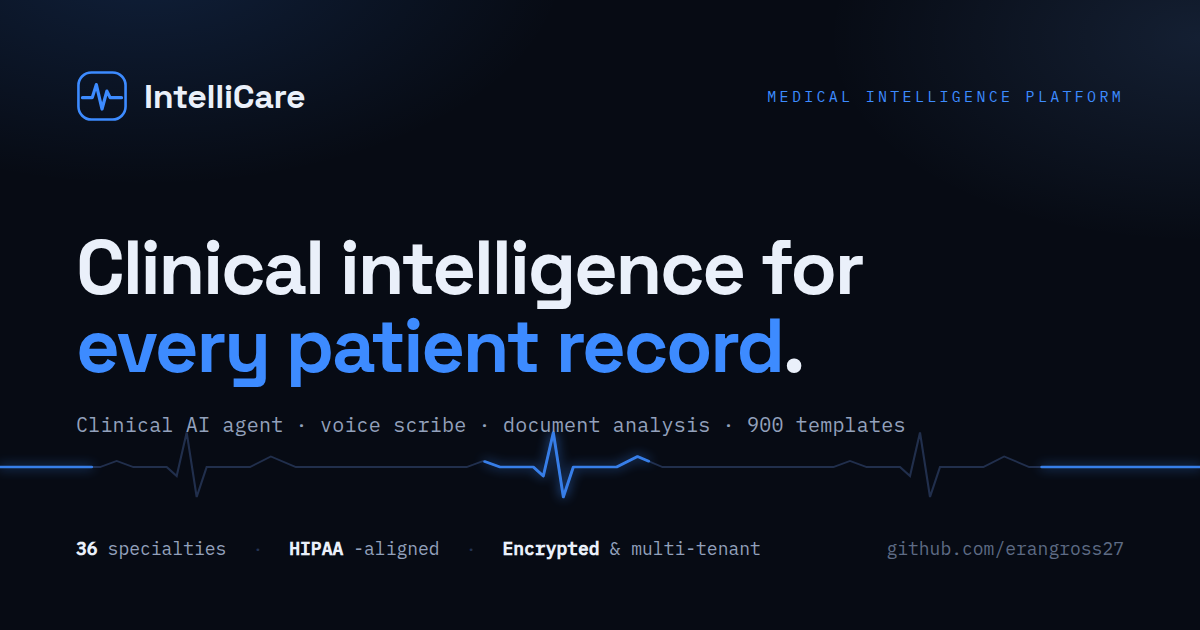
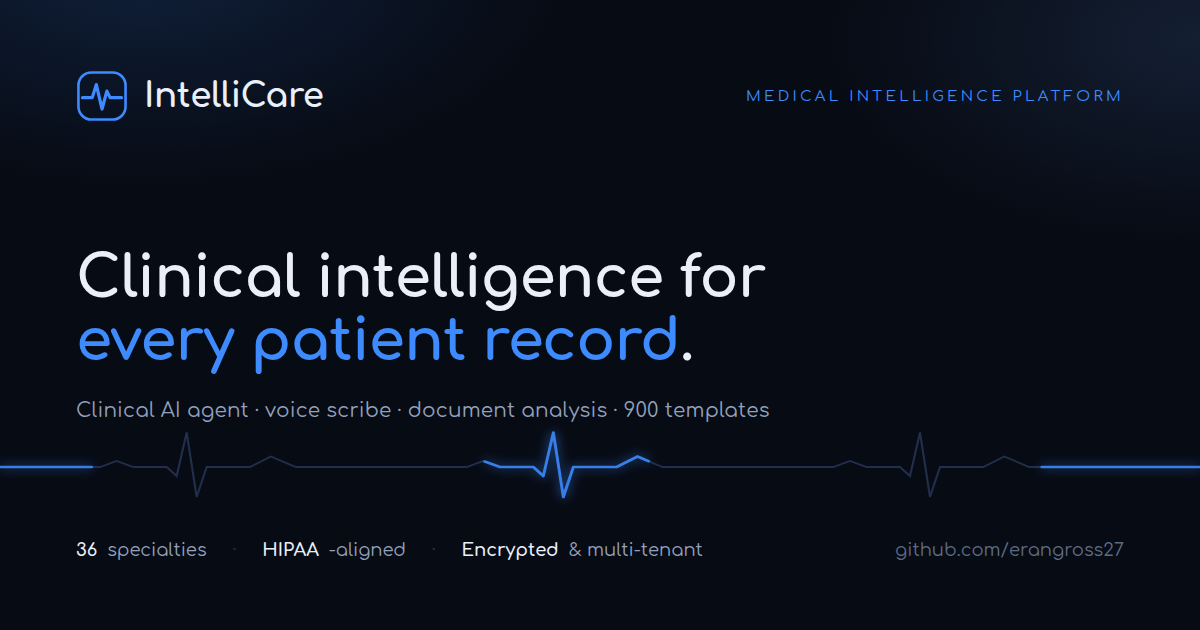
style: switch landing page + social card fonts to Comfortaa
Match the IntelliCare platform/artifact typography ('Comfortaa','Segoe UI',
sans-serif) per the template-creation checklist — replaces Space Grotesk +
IBM Plex throughout the page and the 1200x630 social card.

diff --git a/index.html b/index.html
@@ -32,7 +32,7 @@
 
   <link rel="preconnect" href="https://fonts.googleapis.com" />
   <link rel="preconnect" href="https://fonts.gstatic.com" crossorigin />
-  <link href="https://fonts.googleapis.com/css2?family=Space+Grotesk:wght@500;600;700&family=IBM+Plex+Sans:wght@400;500;600&family=IBM+Plex+Mono:wght@400;500&display=swap" rel="stylesheet" />
+  <link href="https://fonts.googleapis.com/css2?family=Comfortaa:wght@300;400;500;600;700&display=swap" rel="stylesheet" />
 
   <script type="application/ld+json">
   {
@@ -58,11 +58,11 @@
     html { scroll-behavior: smooth; }
     body {
       margin:0; background:var(--ink); color:var(--text);
-      font-family:"IBM Plex Sans",system-ui,sans-serif; font-size:17px; line-height:1.6;
+      font-family:'Comfortaa','Segoe UI',sans-serif; font-size:17px; line-height:1.6;
       -webkit-font-smoothing:antialiased; overflow-x:hidden;
     }
     a { color:inherit; text-decoration:none; }
-    h1,h2,h3 { font-family:"Space Grotesk",system-ui,sans-serif; font-weight:700; line-height:1.08; margin:0; letter-spacing:-0.02em; }
+    h1,h2,h3 { font-family:'Comfortaa','Segoe UI',sans-serif; font-weight:700; line-height:1.08; margin:0; letter-spacing:-0.02em; }
     .wrap { max-width:var(--maxw); margin:0 auto; padding:0 24px; }
 
     /* Ambient drifting glow behind everything */
@@ -76,7 +76,7 @@
     header.nav, main, footer { position:relative; z-index:1; }
 
     .eyebrow {
-      font-family:"IBM Plex Mono",monospace; font-size:12.5px; letter-spacing:0.18em; text-transform:uppercase;
+      font-family:'Comfortaa','Segoe UI',sans-serif; font-size:12.5px; letter-spacing:0.18em; text-transform:uppercase;
       color:var(--blue); display:inline-flex; align-items:center; gap:9px;
     }
     .eyebrow::before {
@@ -88,12 +88,12 @@
     /* Nav */
     header.nav { position:sticky; top:0; z-index:50; background:rgba(6,10,20,.72); backdrop-filter:blur(12px); border-bottom:1px solid var(--line); }
     .nav-inner { display:flex; align-items:center; justify-content:space-between; height:64px; }
-    .brand { display:flex; align-items:center; gap:10px; font-family:"Space Grotesk"; font-weight:700; font-size:19px; }
+    .brand { display:flex; align-items:center; gap:10px; font-family:'Comfortaa','Segoe UI',sans-serif; font-weight:700; font-size:19px; }
     .brand .mark { width:26px; height:26px; }
     .nav-links { display:flex; align-items:center; gap:28px; }
     .nav-links a { color:var(--muted); font-size:15px; transition:color .15s; }
     .nav-links a:hover { color:var(--text); }
-    .nav-cta { font-family:"IBM Plex Mono",monospace; font-size:13.5px; padding:9px 16px; border-radius:9px; border:1px solid var(--line-2); color:var(--text); transition:border-color .15s,color .15s; }
+    .nav-cta { font-family:'Comfortaa','Segoe UI',sans-serif; font-size:13.5px; padding:9px 16px; border-radius:9px; border:1px solid var(--line-2); color:var(--text); transition:border-color .15s,color .15s; }
     .nav-cta:hover { border-color:var(--blue); color:var(--blue); }
 
     /* Hero */
@@ -129,15 +129,15 @@
 
     /* Instrument readout (live demo) */
     .readout { background:linear-gradient(180deg,var(--panel-2),var(--panel)); border:1px solid var(--line); border-radius:var(--radius); box-shadow:0 30px 70px -30px rgba(0,0,0,.8); overflow:hidden; }
-    .readout .bar { display:flex; align-items:center; gap:8px; padding:12px 16px; border-bottom:1px solid var(--line); font-family:"IBM Plex Mono",monospace; font-size:12px; color:var(--faint); }
+    .readout .bar { display:flex; align-items:center; gap:8px; padding:12px 16px; border-bottom:1px solid var(--line); font-family:'Comfortaa','Segoe UI',sans-serif; font-size:12px; color:var(--faint); }
     .dot { width:9px; height:9px; border-radius:50%; background:var(--line-2); }
     .dot.on { background:var(--blue); box-shadow:0 0 8px var(--blue); animation:blink 2s ease-in-out infinite; }
     @keyframes blink { 50%{opacity:.4} }
     .readout .body { padding:18px 18px 20px; min-height:236px; }
     .q { font-size:15px; color:var(--text); }
-    .q .who { font-family:"IBM Plex Mono",monospace; font-size:11px; color:var(--blue-bright); letter-spacing:.1em; text-transform:uppercase; display:block; margin-bottom:5px; }
+    .q .who { font-family:'Comfortaa','Segoe UI',sans-serif; font-size:11px; color:var(--blue-bright); letter-spacing:.1em; text-transform:uppercase; display:block; margin-bottom:5px; }
     .steps { list-style:none; margin:16px 0 0; padding:0; display:grid; gap:9px; }
-    .steps li { font-family:"IBM Plex Mono",monospace; font-size:12.5px; color:var(--muted); display:flex; align-items:center; gap:10px; padding:9px 12px; border:1px solid var(--line); border-radius:9px; background:var(--ink-2); opacity:.35; transform:translateX(-3px); transition:opacity .45s ease,transform .45s ease,border-color .45s; }
+    .steps li { font-family:'Comfortaa','Segoe UI',sans-serif; font-size:12.5px; color:var(--muted); display:flex; align-items:center; gap:10px; padding:9px 12px; border:1px solid var(--line); border-radius:9px; background:var(--ink-2); opacity:.35; transform:translateX(-3px); transition:opacity .45s ease,transform .45s ease,border-color .45s; }
     .steps li.done { opacity:1; transform:none; border-color:var(--blue-deep); }
     .steps li .tick { color:var(--faint); transition:color .3s; }
     .steps li.done .tick { color:var(--blue); }
@@ -168,9 +168,9 @@
     /* Stats */
     .coverage { border-top:1px solid var(--line); border-bottom:1px solid var(--line); background:rgba(10,16,32,.6); padding:38px 0; }
     .stats { display:grid; grid-template-columns:repeat(6,1fr); gap:22px; text-align:center; }
-    .stat .num { font-family:"Space Grotesk"; font-weight:700; font-size:clamp(26px,3vw,38px); color:var(--text); letter-spacing:-0.03em; }
+    .stat .num { font-family:'Comfortaa','Segoe UI',sans-serif; font-weight:700; font-size:clamp(26px,3vw,38px); color:var(--text); letter-spacing:-0.03em; }
     .stat .num .plus { color:var(--blue); }
-    .stat .lbl { font-family:"IBM Plex Mono",monospace; font-size:11px; letter-spacing:.07em; text-transform:uppercase; color:var(--faint); margin-top:6px; }
+    .stat .lbl { font-family:'Comfortaa','Segoe UI',sans-serif; font-size:11px; letter-spacing:.07em; text-transform:uppercase; color:var(--faint); margin-top:6px; }
 
     /* Capability cards */
     .cards { display:grid; grid-template-columns:repeat(2,1fr); gap:18px; }
@@ -179,31 +179,31 @@
     .card .ico { width:40px; height:40px; border-radius:10px; display:grid; place-items:center; background:rgba(61,139,255,.10); border:1px solid var(--blue-deep); margin-bottom:16px; }
     .card h3 { font-size:19px; }
     .card p { color:var(--muted); margin:9px 0 0; font-size:15px; }
-    .card .meta { margin-top:14px; font-family:"IBM Plex Mono",monospace; font-size:11.5px; letter-spacing:.04em; color:var(--blue-bright); text-transform:uppercase; }
+    .card .meta { margin-top:14px; font-family:'Comfortaa','Segoe UI',sans-serif; font-size:11.5px; letter-spacing:.04em; color:var(--blue-bright); text-transform:uppercase; }
 
     /* How it works */
     .how { background:rgba(10,16,32,.6); border-top:1px solid var(--line); border-bottom:1px solid var(--line); }
     .flow { display:grid; grid-template-columns:repeat(5,1fr); gap:0; }
     .flow .node { position:relative; padding:22px 18px 22px 0; }
     .flow .node + .node { padding-left:18px; border-left:1px solid var(--line); }
-    .flow .step { font-family:"IBM Plex Mono",monospace; font-size:12px; color:var(--blue); letter-spacing:.12em; }
-    .flow h4 { font-family:"Space Grotesk"; font-size:17px; margin:10px 0 6px; font-weight:600; }
+    .flow .step { font-family:'Comfortaa','Segoe UI',sans-serif; font-size:12px; color:var(--blue); letter-spacing:.12em; }
+    .flow h4 { font-family:'Comfortaa','Segoe UI',sans-serif; font-size:17px; margin:10px 0 6px; font-weight:600; }
     .flow p { margin:0; font-size:13.5px; color:var(--muted); }
 
     /* Security */
     .sec-grid { display:grid; grid-template-columns:repeat(3,1fr); gap:14px; }
     .sec-item { display:flex; gap:13px; padding:18px; border:1px solid var(--line); border-radius:12px; background:var(--panel); }
     .sec-item .tick { color:var(--blue); flex:none; margin-top:2px; }
-    .sec-item h4 { font-family:"Space Grotesk"; font-size:16px; margin:0 0 4px; font-weight:600; }
+    .sec-item h4 { font-family:'Comfortaa','Segoe UI',sans-serif; font-size:16px; margin:0 0 4px; font-weight:600; }
     .sec-item p { margin:0; font-size:14px; color:var(--muted); }
 
     /* Chips + specialties */
     .chips { display:flex; flex-wrap:wrap; gap:10px; }
-    .chip { font-family:"IBM Plex Mono",monospace; font-size:13px; color:var(--muted); padding:8px 14px; border:1px solid var(--line); border-radius:999px; background:var(--ink-2); transition:border-color .15s,color .15s; }
+    .chip { font-family:'Comfortaa','Segoe UI',sans-serif; font-size:13px; color:var(--muted); padding:8px 14px; border:1px solid var(--line); border-radius:999px; background:var(--ink-2); transition:border-color .15s,color .15s; }
     .chip:hover { border-color:var(--blue-deep); color:var(--text); }
     .chip b { color:var(--text); font-weight:600; }
     .spec-grid { display:grid; grid-template-columns:repeat(4,1fr); gap:8px 28px; }
-    .spec-grid div { padding:7px 0; border-bottom:1px solid var(--line); color:var(--muted); font-family:"IBM Plex Mono",monospace; font-size:13px; }
+    .spec-grid div { padding:7px 0; border-bottom:1px solid var(--line); color:var(--muted); font-family:'Comfortaa','Segoe UI',sans-serif; font-size:13px; }
 
     .tech { background:rgba(10,16,32,.6); border-top:1px solid var(--line); }
 
